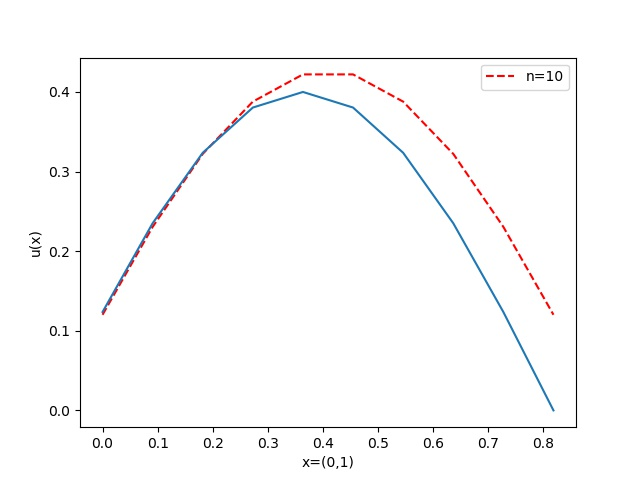
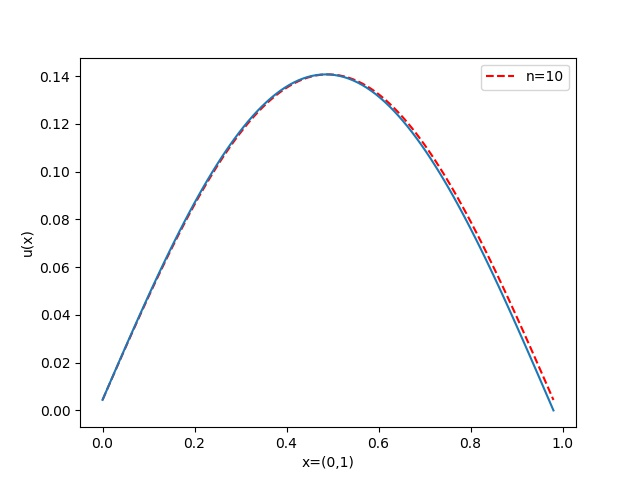
Made changes to B and plot code
Made the code more dynamic, so that it will find the eigenvector belongig to the lowest eigenvalue and scale the analytic solution.

diff --git a/Project2/main_B.cpp b/Project2/main_B.cpp
@@ -23,13 +23,12 @@ int main(int argc, char const *argv[]) {
   classtuff mysolver;
 
   //int size = pow(10,atof(argv[1]));
-  int c_size = 10;
+  int c_size = 100;
   //Define matrix to solve Ax = lambda x
   double a = 0;
   double b = 1;
   //Initialize matrices
   mat A = mysolver.Initialize(a,  b,  V,  c_size);
-  //cout << A << endl;
   vec test_eigvals = mysolver.Jacobi_arm(A);
   vec eigval;
   mat eigvec;
@@ -37,13 +36,16 @@ int main(int argc, char const *argv[]) {
   eig_sym(eigval, eigvec, A);
   cout << eigvec << endl;
   mat qen = mysolver.Jacobi(A,1e-16, c_size);
-  cout << sort(qen.diag()) << endl;
-  cout << sort(test_eigvals) << endl;
-
-  for(int k = 0;k< c_size;k++){
-    double rho = k*1./(c_size+1);
-    ofile << setprecision(15) << rho << " " <<mysolver.S(k,7)<< endl;
+  //cout << sort(qen.diag()) << endl;
+  //cout << sort(test_eigvals) << endl;
+  cout << mysolver.S << endl;
+  for(int i=0; i < c_size; i++){
+    if (min(mysolver.S.col(i)) >0){
+      for(int k = 0;k< c_size;k++){
+        double rho = k*1./(c_size+1);
+        ofile << setprecision(15) << rho << " " <<mysolver.S(k,i)<< endl;
+      }
+    }
   }
-
   return 0;
 }

diff --git a/Project2/Plotte_code.py b/Project2/Plotte_code.py
@@ -15,7 +15,7 @@ i  = np.linspace(1,len(rho), len(rho))
 def anal(i):
     return np.sin(np.pi * i /len(rho))
 plt.plot(x_value,np.asarray(y_value),"r--", label="n=10")
-plt.plot(x_value,0.4*anal(i))
+plt.plot(x_value,np.max(np.asarray(y_value))*anal(i))
 plt.xlabel('x=(0,1)')
 plt.ylabel('u(x)')
 plt.legend()
